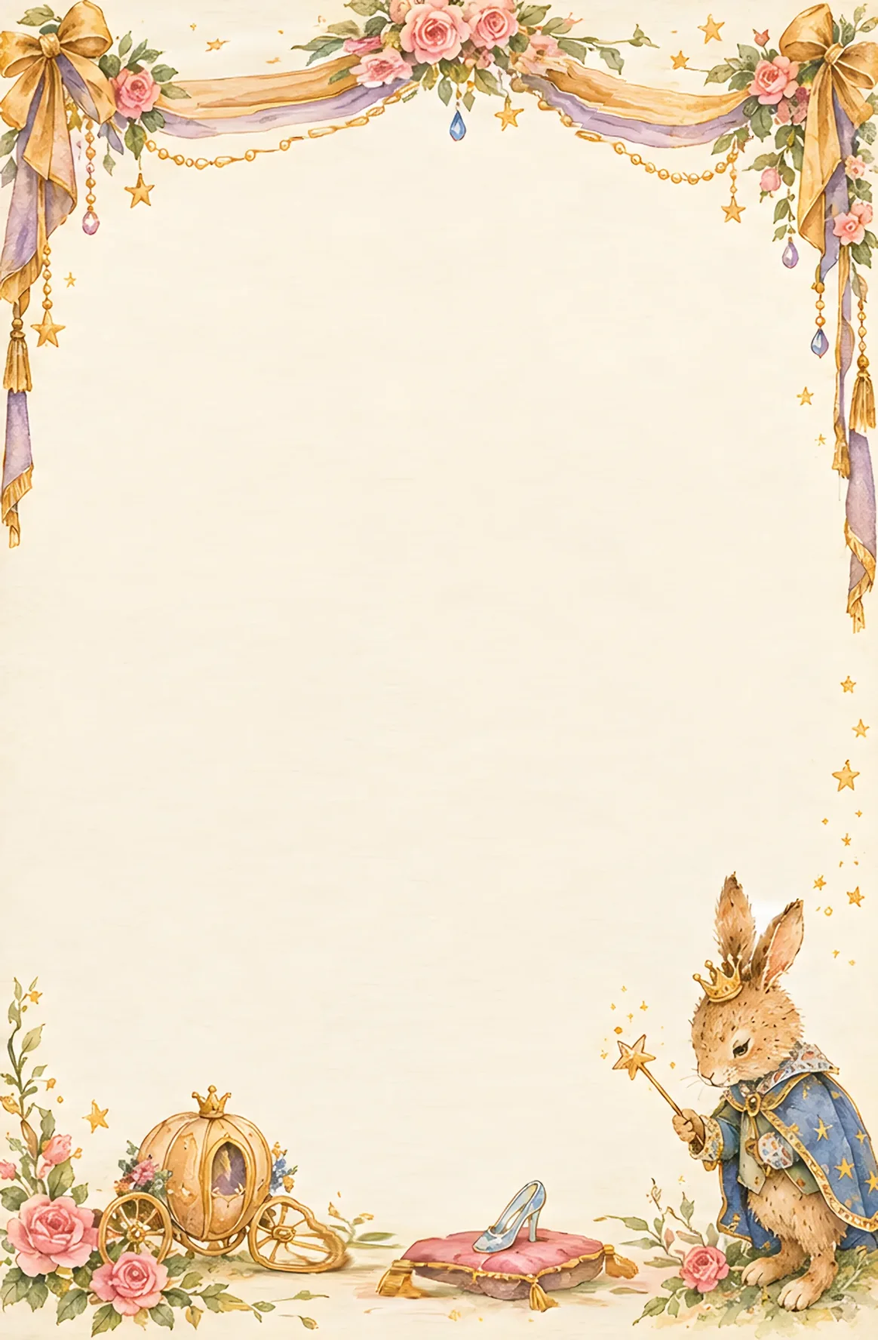
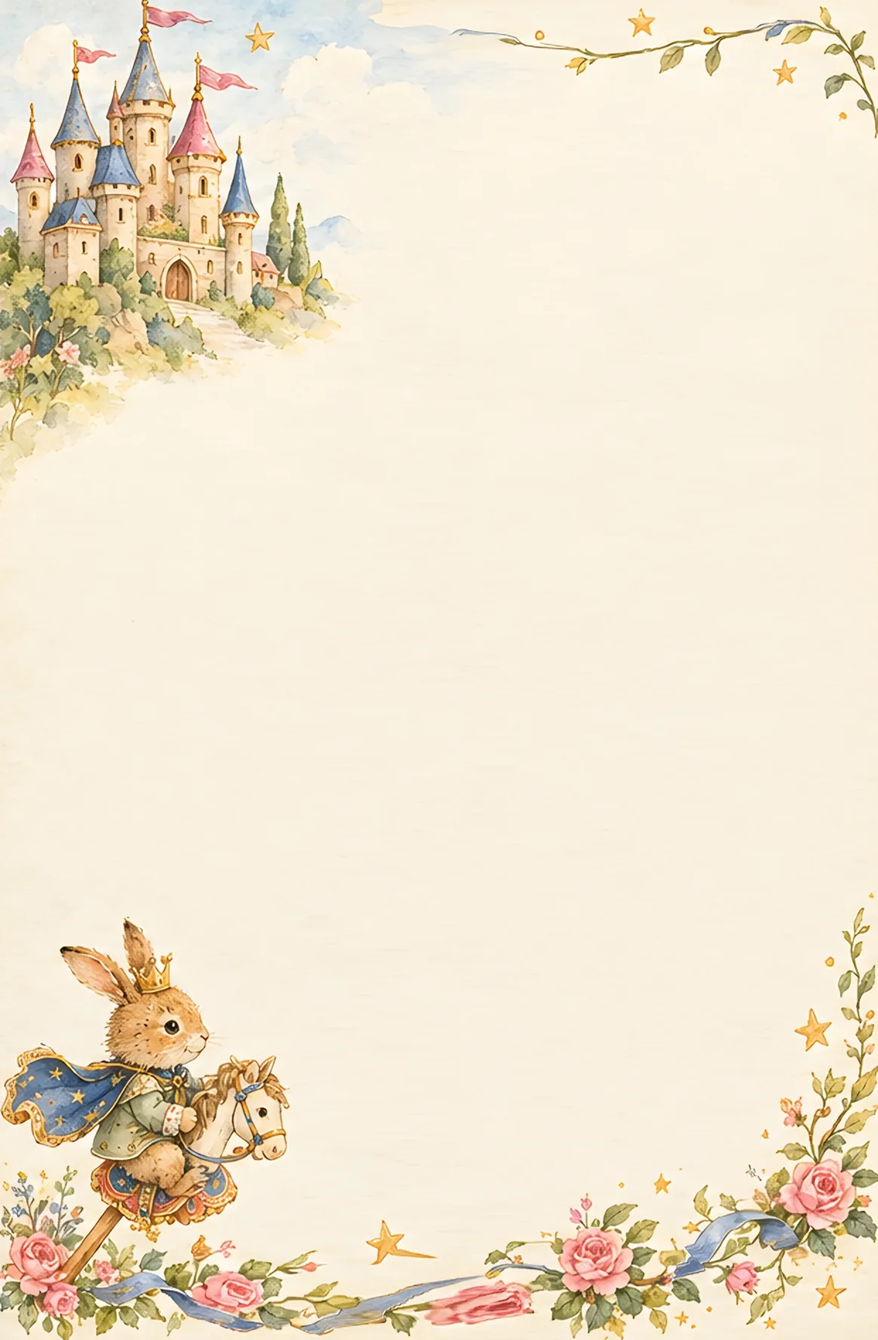
Листы малышей: текст занимает всё свободное поле и обтекает Героёнка и предметы в углах (вырезы, подобраны по рисунку — scripts/kids_layout.py), шрифт крупнее (Сказка до 28px, Большая история 23px); «Королевство» — лист с замком вместо кареты и туфельки Золушки

diff --git a/book.html b/book.html
@@ -158,8 +158,8 @@ body{ margin:0; background:var(--ink); font-family:var(--font-body); color:var(-
 .sk-strip-right .story{ padding-left:68px; padding-right:128px; }
 .sk-strip-right .page-item, .sk-strip-right .pageno{ padding-left:0; padding-right:60px; }
 /* малышам: лист с текстом нарисован целиком (kidsSheet), текст — в пустой середине, номер — под текстом */
-.kids-page .story{ position:absolute; top:var(--kt); right:var(--kr); bottom:calc(var(--kb) + 40px); left:var(--kl); padding:0; line-height:1.55; }
-.kids-page .pageno{ top:calc(100% - var(--kb) - 36px); bottom:auto; left:var(--kl); right:var(--kr); }
+.kids-page .story{ position:absolute; padding:0; display:block; line-height:1.5; }
+.kids-page .pageno{ bottom:auto; }
 .kids-page .pageno img{ display:none; }
 .pic-page .hero{ position:absolute; inset:0; float:none; width:auto; height:auto; margin:0; border-radius:0; box-shadow:none; }
 .qr-block{ display:flex; align-items:center; gap:18px; margin:26px 110px 0; text-align:left; }
@@ -371,30 +371,72 @@ body{ margin:0; background:var(--ink); font-family:var(--font-body); color:var(-
   const DECOR = { tajny: { sprig: 9, folio: [6, 3], strip: true }, korolevstvo: { sprig: 9, boyFolio: [7, 6], strip: true }, 'novyj-god': { sprig: 10, strip: true }, 'den-rozhdeniya': { sprig: 9, compose: [9, 1, 10], strip: true } };
   const DECOR_BY_THEME = { adventure: 'tajny', fairytale: 'korolevstvo', newyear: 'novyj-god', birthday: 'den-rozhdeniya' };
   // Малышам (до 7 лет) — листы с текстом целиком нарисованы: Героёнок в образе темы по краям, середина для текста
-  // (assets/kit/decor/<набор>/kids-1|2.webp, два вида чередуются). Поля текста — отступы от краёв листа в %:
-  // [сверху, справа, снизу, слева], подобраны по картинкам, чтобы текст не заходил на рисунок
+  // (assets/kit/decor/<набор>/kids-1|2.webp, два вида чередуются; такая же таблица — в js/book-engine.js)
   const KIDS_AGE = 7;
+  // [сверху, справа, снизу, слева, вырезы] — поле текста в % от краёв листа; вырезы — рисунок внутри поля (Героёнок, предметы в углах),
+  // текст их обтекает: tl/bl — [правый край, низ|верх], tr/br — [левый край, низ|верх] в % листа. Подобраны по рисунку автоматически
+  // (не ближе ~2% к рисунку и 6% к краю листа) — подбор — scripts/kids_layout.py
   const KIDS = {
-    tajny: [[16, 12, 33, 16], [22, 13, 32, 17]],
-    more: [[10, 13, 44, 13], [24, 17, 32, 13]],
-    poxod: [[16, 12, 36, 12], [14, 12, 33, 24]],
-    korolevstvo: [[10, 20, 25, 22], [20, 16, 36, 16]],
-    les: [[15, 14, 38, 14], [19, 14, 36, 14]],
-    podvodnoe: [[8, 13, 36, 24], [22, 14, 33, 14]],
-    'novyj-god': [[13, 12, 32, 14], [24, 20, 24, 13]],
-    'den-rozhdeniya': [[14, 13, 40, 13], [24, 13, 40, 13]]
+    tajny: [[14, 10, 15, 15, { tl: [24.5, 20], tr: [86, 17.5], bl: [21, 78.5], br: [74.5, 69] }], [12, 11, 12, 15, { tr: [70.5, 27], bl: [26, 82.5], br: [69, 67] }]],
+    more: [[16.5, 10, 12, 12, { bl: [19, 82], br: [67.5, 62] }], [10, 15.5, 19, 9.5, { tl: [26, 28], bl: [18, 76], br: [64, 71.5] }]],
+    poxod: [[18, 8.5, 22, 12, { tl: [16.5, 21], bl: [36, 68], br: [80.5, 69.5] }], [13, 11, 25, 19, { tl: [31.5, 17], br: [84, 66.5] }]],
+    korolevstvo: [[16, 16, 11, 21, { bl: [23, 85.5], br: [76, 72.5] }], [8, 6.5, 18, 6, { tl: [38, 33.5], bl: [32.5, 67], br: [88, 74] }]],
+    les: [[19, 9, 23, 13, { tl: [17.5, 28], bl: [28, 60], br: [80.5, 69.5] }], [11, 9, 27.5, 16, { tl: [30.5, 19.5], bl: [45.5, 62.5] }]],
+    podvodnoe: [[8.5, 10.5, 22.5, 26, { tl: [27.5, 19], br: [79.5, 65] }], [9.5, 13.5, 19, 9.5, { tl: [22.5, 21], tr: [78.5, 19], bl: [29.5, 58], br: [70, 70.5] }]],
+    'novyj-god': [[16, 9.5, 16, 22, { br: [74, 67] }], [19, 9.5, 16, 10.5, { tl: [20.5, 29], tr: [81.5, 33], bl: [20, 79], br: [77.5, 75] }]],
+    'den-rozhdeniya': [[15.5, 13.5, 19, 16, { br: [63.5, 65] }], [15, 10.5, 17, 12.5, { tr: [78, 26], bl: [56, 80], br: [56, 54.5] }]]
   };
-  const KIDS_SPLIT = 450; // больше знаков на лист не ставим — делим текст страницы на несколько листов (иначе шрифт для малышей мелкий)
+  const KIDS_SPLIT = 650; // больше знаков на лист не ставим — делим текст страницы на несколько листов (иначе шрифт для малышей мелкий)
   let KIDS_ON = false;
   let KIDS_SET = 'tajny'; // набор листов малышей: как SET, но у книги ко дню рождения — именинные листы
   let kidsCount = 0;
   function kidsSheet(s) {
     s.setAttribute('data-kids-no', String(kidsCount + 1)); // номер листа с текстом (страница сказки может занять несколько)
     const n = kidsCount++ % 2;
-    const box = KIDS[KIDS_SET][n];
     s.classList.add('text-page', 'kids-page');
     s.style.background = 'url("assets/kit/decor/' + KIDS_SET + '/kids-' + (n + 1) + '.webp") center/100% 100% no-repeat #f6efdf';
-    ['--kt', '--kr', '--kb', '--kl'].forEach(function (v, i) { s.style.setProperty(v, box[i] + '%'); });
+    s.kidsLayout = KIDS[KIDS_SET][n];
+  }
+  // текст — в поле листа, номер — под ним; вырезы с рисунком текст обтекает
+  function kidsPlace(s) {
+    const W = SHEET_W, H = 1123, k = s.kidsLayout, cuts = k[4] || {};
+    const area = { top: k[0] * H / 100, right: W - k[1] * W / 100, bottom: H - k[2] * H / 100 - 40, left: k[3] * W / 100 };
+    const story = s.querySelector('.story');
+    story.style.cssText += ';top:' + area.top + 'px;left:' + area.left + 'px;width:' + (area.right - area.left) + 'px;height:' + (area.bottom - area.top) + 'px';
+    const px = {};
+    Object.keys(cuts).forEach(function (c) { px[c] = { x: cuts[c][0] * W / 100, y: cuts[c][1] * H / 100 }; });
+    kidsCuts(story, area, px);
+    const no = s.querySelector('.pageno');
+    if (no) no.style.cssText += ';top:' + (area.bottom + 4) + 'px;left:' + area.left + 'px;right:' + (W - area.right) + 'px';
+  }
+  // Вырезы в поле текста — пустые «плавающие» блоки в углах, текст их обтекает. Нижние ставятся через распорку нулевой ширины
+  // (float не умеет прижиматься к низу). area и cuts — в px листа: tl/tr — {x: край выреза, y: его низ}, bl/br — {x, y: его верх}
+  function kidsCuts(story, area, cuts) {
+    const floats = [], spacers = [], late = [];
+    function f(side, w, h, clear) {
+      const d = document.createElement('div');
+      d.className = 'kids-cut';
+      d.style.cssText = 'float:' + side + ';width:' + Math.max(0, w) + 'px;height:' + Math.max(0, h) + 'px' + (clear ? ';clear:' + side : '');
+      return d;
+    }
+    if (cuts.tl && cuts.tl.y > area.top && cuts.tl.x > area.left) floats.push(f('left', cuts.tl.x - area.left, cuts.tl.y - area.top));
+    if (cuts.tr && cuts.tr.y > area.top && cuts.tr.x < area.right) floats.push(f('right', area.right - cuts.tr.x, cuts.tr.y - area.top));
+    [['bl', 'left'], ['br', 'right']].forEach(function (c) {
+      const cut = cuts[c[0]];
+      if (!cut || cut.y >= area.bottom) return;
+      const w = c[1] === 'left' ? cut.x - area.left : area.right - cut.x;
+      if (w <= 0) return;
+      spacers.push(f(c[1], 0, cut.y - area.top));
+      late.push({ y: cut.y, node: f(c[1], w, area.bottom - Math.max(cut.y, area.top) - 3, true) }); // −3px: доли пикселя не дают «переполнения»
+    });
+    // распорки — первыми (иначе встают правее верхнего выреза и сужают текст на всю высоту), за ними верхние вырезы;
+    // нижние — по порядку сверху вниз и после буквицы: float не встаёт выше предыдущего, и буквица после нижнего выреза уехала бы вниз
+    const lateNodes = late.sort(function (a, b) { return a.y - b.y; }).map(function (l) { return l.node; });
+    const anchor = story.firstChild;
+    spacers.concat(floats).forEach(function (d) { story.insertBefore(d, anchor); });
+    const drop = story.querySelector('.dropcap');
+    const ref = drop ? drop.nextSibling : anchor;
+    lateNodes.forEach(function (d) { (drop ? drop.parentNode : story).insertBefore(d, ref); });
   }
   // делим абзацы на n листов примерно поровну по длине (абзац не рвём)
   function splitParagraphs(paras, n) {
@@ -633,6 +675,7 @@ body{ margin:0; background:var(--ink); font-family:var(--font-body); color:var(-
           }
           addStory(sh, part, k > 0);
           sh.appendChild(pageNumber(Number(sh.getAttribute('data-kids-no')), true));
+          kidsPlace(sh);
         });
         return;
       } else if (useHero) {
@@ -802,7 +845,7 @@ body{ margin:0; background:var(--ink); font-family:var(--font-body); color:var(-
   function fitText() {
     document.querySelectorAll('.story').forEach(function (story) {
       // лист только с текстом — крупный шрифт для чтения вслух малышам; подросткам — как раньше
-      let size = story.closest('.text-page') && !document.body.classList.contains('teen') ? 26 : 19.5;
+      let size = story.closest('.kids-page') ? 28 : story.closest('.text-page') && !document.body.classList.contains('teen') ? 26 : 19.5;
       story.style.setProperty('--fs', size + 'px');
       // предмет над текстом (160 px) — на каждой странице; если шрифт выходит мельче 21px, предмет уменьшается до 90 px
       const item = story.parentNode.querySelector('.page-item');

diff --git a/js/book-engine.js b/js/book-engine.js
@@ -83,18 +83,19 @@
   function decorFor(book) { return DECOR_BY_GENRE[book.genre] || DECOR_BY_FOOTER[book.footer] || 'tajny'; }
   // Малышам (до 7 лет) листы с текстом целиком нарисованы: Героёнок в образе темы по краям, середина для текста
   // (decor/<набор>/kids-1|2-pro.webp — те же листы, что в «Сказке» (book.html, KIDS), сужены под 582×888 через пустую середину).
-  // Поля текста — как в book.html, % от краёв [сверху, справа, снизу, слева]; боковые поля здесь шире в KIDS_SIDE раз
+  // [сверху, справа, снизу, слева, вырезы] — поле текста в % листа; вырезы (Героёнок, предметы в углах) текст обтекает:
+  // tl/bl — [правый край, низ|верх], tr/br — [левый край, низ|верх]. Подобраны по рисунку автоматически (scripts/kids_layout.py)
   var KIDS = {
-    tajny: [[16, 12, 33, 16], [22, 13, 32, 17]],
-    more: [[10, 13, 44, 13], [24, 17, 32, 13]],
-    poxod: [[16, 12, 36, 12], [14, 12, 33, 24]],
-    korolevstvo: [[10, 20, 25, 22], [20, 16, 36, 16]],
-    les: [[15, 14, 38, 14], [19, 14, 36, 14]],
-    podvodnoe: [[8, 13, 36, 24], [22, 14, 33, 14]],
-    'novyj-god': [[13, 12, 32, 17], [28, 20, 24, 13]], // в узком листе гирлянда и Героёнок на ёлке ближе к тексту — поля больше, чем в book.html
-    'den-rozhdeniya': [[14, 13, 40, 13], [24, 13, 40, 13]]
+    tajny: [[15, 10.5, 15, 16, { tl: [22.5, 20], tr: [86.5, 17.5], bl: [22.5, 79], br: [73, 69] }], [16, 12, 16, 15, { tr: [70.5, 27], bl: [19, 82], br: [67.5, 67] }]],
+    more: [[14, 13.5, 16, 14, { br: [65.5, 66] }], [10, 16.5, 22.5, 6, { tl: [28, 29], bl: [18, 76], br: [66, 71.5] }]],
+    poxod: [[20, 7, 26, 13, { bl: [30, 68.5], br: [85, 69.5] }], [17, 10.5, 23.5, 20.5, { br: [82, 67] }]],
+    korolevstvo: [[17, 20, 15, 21, { br: [76, 74.5] }], [8.5, 6.5, 21.5, 6, { tl: [41, 33.5], bl: [32.5, 67], br: [88.5, 74] }]],
+    les: [[15, 12.5, 27, 14.5, { tl: [21.5, 28], bl: [28, 63], br: [86.5, 71] }], [14.5, 10, 32, 17, { tl: [30.5, 19.5], bl: [41, 62.5] }]],
+    podvodnoe: [[8.5, 11, 22.5, 29.5, { br: [78.5, 65] }], [13.5, 14.5, 26.5, 10, { tl: [23, 21.5], tr: [82, 19], bl: [26, 58.5], br: [74, 70.5] }]],
+    'novyj-god': [[18, 9.5, 17, 21.5, { br: [74, 67] }], [20.5, 10, 20, 9, { tl: [20.5, 30], tr: [80, 33], br: [77, 75] }]],
+    'den-rozhdeniya': [[15, 13.5, 23, 16, { br: [65.5, 65] }], [17, 11.5, 21, 12.5, { tr: [77, 25.5], br: [58.5, 54.5] }]]
   };
-  var KIDS_AGE = 7, KIDS_SIDE = 1256 / 1164, PAGE_W = 582, PAGE_H = 888;
+  var KIDS_AGE = 7, PAGE_W = 582, PAGE_H = 888;
   var KIDS_SET = null; // набор листов малышей (null — обычное оформление); у книги ко дню рождения — именинные листы
   var kidsCount = 0;
   function kidsSetFor(book) {
@@ -103,15 +104,47 @@
     var set = book.occasion === 'birthday' ? 'den-rozhdeniya' : SET;
     return KIDS[set] ? set : null;
   }
-  // фон листа и границы текста (px), номер страницы — под текстом
+  // фон листа и поле текста (px листа); номер страницы — под текстом
   function kidsBox(page) {
-    var n = kidsCount++ % 2, b = KIDS[KIDS_SET][n];
+    var n = kidsCount++ % 2, k = KIDS[KIDS_SET][n], cuts = {};
     page.style.background = 'url("' + KIT + 'decor/' + KIDS_SET + '/kids-' + (n + 1) + '-pro.webp") center/100% 100% no-repeat #f6efdf';
-    var l = b[3] * KIDS_SIDE * PAGE_W / 100, r = b[1] * KIDS_SIDE * PAGE_W / 100;
+    var l = k[3] * PAGE_W / 100, r = PAGE_W - k[1] * PAGE_W / 100;
     page.style.setProperty('--l', l + 'px');
-    page.style.setProperty('--w', (PAGE_W - l - r) + 'px');
-    return { top: b[0] * PAGE_H / 100, bottom: PAGE_H - b[2] * PAGE_H / 100 };
+    page.style.setProperty('--w', (r - l) + 'px');
+    Object.keys(k[4] || {}).forEach(function (c) { cuts[c] = { x: k[4][c][0] * PAGE_W / 100, y: k[4][c][1] * PAGE_H / 100 }; });
+    return { top: k[0] * PAGE_H / 100, bottom: PAGE_H - k[2] * PAGE_H / 100, left: l, right: r, cuts: cuts };
   }
+  // Вырезы — пустые «плавающие» блоки в углах поля, текст их обтекает (как kidsCuts в book.html). Нижние ставятся через распорку
+  // нулевой ширины (float не прижимается к низу); распорки — первыми, иначе встают правее верхнего выреза и сужают текст на всю высоту.
+  // Нижние вырезы возвращаются отдельно: их ставим после буквицы (placeLateCuts) — float не встаёт выше предыдущего
+  function kidsCuts(content, area, cuts) {
+    var spacers = [], floats = [], late = [];
+    function f(side, w, ht, clear) {
+      var d = h('div', 'kids-cut');
+      d.style.cssText = 'float:' + side + ';width:' + Math.max(0, w) + 'px;height:' + Math.max(0, ht) + 'px' + (clear ? ';clear:' + side : '');
+      return d;
+    }
+    if (cuts.tl && cuts.tl.y > area.top && cuts.tl.x > area.left) floats.push(f('left', cuts.tl.x - area.left, cuts.tl.y - area.top));
+    if (cuts.tr && cuts.tr.y > area.top && cuts.tr.x < area.right) floats.push(f('right', area.right - cuts.tr.x, cuts.tr.y - area.top));
+    [['bl', 'left'], ['br', 'right']].forEach(function (c) {
+      var cut = cuts[c[0]];
+      if (!cut || cut.y >= area.bottom) return;
+      var w = c[1] === 'left' ? cut.x - area.left : area.right - cut.x;
+      if (w <= 0) return;
+      spacers.push(f(c[1], 0, cut.y - area.top));
+      late.push({ y: cut.y, node: f(c[1], w, area.bottom - Math.max(cut.y, area.top) - 3, true) }); // −3px: без «переполнения» из-за долей пикселя
+    });
+    spacers.concat(floats).forEach(function (d) { content.appendChild(d); });
+    return late.sort(function (a, b) { return a.y - b.y; }).map(function (l) { return l.node; });
+  }
+  // нижние вырезы — после буквицы первого абзаца на листе (или перед ним, если буквицы нет)
+  function placeLateCuts(sheet, node) {
+    var drop = node.querySelector && node.querySelector('.bk-dropcap');
+    var ref = drop ? drop.nextSibling : node;
+    sheet.lateCuts.forEach(function (d) { (drop ? drop.parentNode : sheet.content).insertBefore(d, ref); });
+    sheet.lateIn = drop ? node : null;
+  }
+
   var BOY = false; // герой — мальчик: у некоторых наборов свои украшения (DECOR[set].boy)
   function decorCfg() { var c = DECOR[SET]; return BOY && c.boy ? Object.assign({}, c, c.boy) : c; }
   function decorItem(n, set) { return KIT + 'decor/' + (set || SET) + '/item-' + n + '.webp'; }
@@ -261,18 +294,26 @@
     }
     page.appendChild(folio);
 
+    var lateCuts = null;
     if (KIDS_SET) {
-      // текст — в пустой середине рисунка; у открытия главы сверху «Глава N» и название, без шапки страницы
-      var box = kidsBox(page);
+      // текст — в поле рисунка; у открытия главы сверху «Глава N» и название (между верхними вырезами), без шапки страницы
+      var box = kidsBox(page), cuts = box.cuts;
       var head2 = page.querySelector('.bk-opener-head');
       var top2 = box.top;
-      if (head2) { head2.style.top = box.top + 'px'; top2 = box.top + head2.offsetHeight + 18; }
+      if (head2) {
+        var hl = cuts.tl && cuts.tl.y > box.top ? Math.max(box.left, cuts.tl.x) : box.left;
+        var hr = cuts.tr && cuts.tr.y > box.top ? Math.min(box.right, cuts.tr.x) : box.right;
+        head2.style.cssText += ';top:' + box.top + 'px;left:' + hl + 'px;width:' + (hr - hl) + 'px';
+        top2 = box.top + head2.offsetHeight + 18;
+      }
+      var area = { top: top2, bottom: box.bottom - 40, left: box.left, right: box.right };
       content.style.top = top2 + 'px';
-      content.style.height = (box.bottom - 40 - top2) + 'px';
+      content.style.height = (area.bottom - top2) + 'px';
       folio.style.top = (box.bottom - 34) + 'px';
+      lateCuts = kidsCuts(content, area, cuts);
     }
 
-    return { page: page, content: content, folio: folio.querySelector('.bk-no') };
+    return { page: page, content: content, folio: folio.querySelector('.bk-no'), lateCuts: lateCuts };
   }
 
   function illustrationSheet(root, block, imageIndex) {
@@ -678,13 +719,17 @@
           var node = renderBlock(block, isFirst ? { initial: initial, dropcap: !initial } : null);
           if (isFirst) first = false;
           cur.content.appendChild(node);
+          if (cur.lateCuts) { placeLateCuts(cur, node); cur.lateCuts = null; }
 
           if (overflows(cur.content)) {
+            // нижние вырезы листа, если стояли внутри этого абзаца, остаются на листе
+            if (cur.lateIn === node) Array.prototype.slice.call(node.querySelectorAll('.kids-cut')).forEach(function (d) { cur.content.appendChild(d); });
             cur.content.removeChild(node);
             cur = textSheet(root, chapter, false);
             sheets.push(cur);
             node = renderBlock(block, null);
             cur.content.appendChild(node);
+            if (cur.lateCuts) { placeLateCuts(cur, node); cur.lateCuts = null; }
           }
           // адрес абзаца в книге — для правки текста прямо на странице
           if (block.t === 'p') { node.setAttribute('data-ch', String(ci)); node.setAttribute('data-bi', String(bi)); }

diff --git a/assets/kit/parchment.css b/assets/kit/parchment.css
@@ -670,4 +670,4 @@
 /* ---------- малышам (до 7 лет): лист с текстом нарисован целиком — Героёнок в образе темы по краям (book-engine.js, KIDS) ---------- */
 .bk-kids .bk-opener-head .bk-vignette, .bk-kids .bk-folio-brand img{ display:none; }
 .bk-kids .bk-chapter-title{ margin-top:8px; }
-.bk-kids .bk-content{ font-size:21px; line-height:34px; }
+.bk-kids .bk-content{ font-size:23px; line-height:37px; }

diff --git a/scripts/kids_layout.py b/scripts/kids_layout.py
@@ -1,0 +1,70 @@
+"""Поля текста на листах малышей (KIDS в book.html и js/book-engine.js): подбор и проверка по рисунку.
+Маска рисунка (крупные пятна, отличные от бумаги) с запасом ~2%; поле [сверху, справа, снизу, слева] + вырезы в углах
+(tl/tr/bl/br) растут, пока не задевают рисунок; не ближе 6% к краю листа, строки не уже 38% листа.
+Запуск: python scripts/kids_layout.py           — подбор для «Сказки» (стартует с таблицы KIDS в book.html) → tuned.json
+        python scripts/kids_layout.py -pro      — для «Большой истории» (kids-N-pro.webp, стартует с tuned.json) → tuned-pro.json
+Таблицы в код переносятся вручную (формат как в KIDS).
+"""
+import json, subprocess, sys, numpy as np
+SUF = sys.argv[1] if len(sys.argv) > 1 else ''
+from PIL import Image
+from scipy.ndimage import binary_opening, binary_dilation, label
+src = open(r'book.html', encoding='utf-8').read()
+tbl = src[src.index('const KIDS = {') + len('const KIDS = '): src.index('};', src.index('const KIDS = {')) + 1]
+K = json.load(open('tuned.json')) if SUF else json.loads(subprocess.check_output(['node', '-e', 'console.log(JSON.stringify(' + tbl + '))']))
+W0, H0 = (200, 283) if not SUF else (200, 305)
+X, Y = np.meshgrid((np.arange(W0) + .5) * 100 / W0, (np.arange(H0) + .5) * 100 / H0)
+def mask(s, n):
+    im = Image.open(f'assets/kit/decor/{s}/kids-{n}{SUF}.webp').convert('RGB').resize((397, 561 if not SUF else 606))
+    a = np.asarray(im).astype(int); h, w, _ = a.shape
+    paper = np.median(a[h//3:2*h//3, w//3:2*w//3].reshape(-1, 3), 0)
+    d = binary_opening(np.abs(a - paper).sum(2) > 45, iterations=1)
+    lab, _ = label(binary_dilation(d, iterations=1)); sz = np.bincount(lab.ravel()); big = sz >= 40; big[0] = False
+    d = big[lab] & d
+    d = binary_dilation(d, iterations=7)  # запас ≈1,8%
+    return np.asarray(Image.fromarray(d.astype(np.uint8) * 255).resize((W0, H0))) > 0
+CUTS = ['tl', 'tr', 'bl', 'br']
+def unpack(p):
+    t, r, b, l = p[:4]; cuts = {c: (p[4 + 2 * i], p[5 + 2 * i]) for i, c in enumerate(CUTS)}
+    return t, r, b, l, cuts
+def region(p):
+    t, r, b, l, cuts = unpack(p)
+    a = (Y >= t) & (Y <= 100 - b) & (X >= l) & (X <= 100 - r)
+    for c, (cx, cy) in cuts.items():
+        a &= ~(((X < cx) if c[1] == 'l' else (X > cx)) & ((Y < cy) if c[0] == 't' else (Y > cy)))
+    return a
+def score(p, d):
+    a = region(p)
+    rows = a.sum(1); narrow = ((rows > 0) & (rows < W0 * 0.38)).sum()
+    t, r, b, l, cuts = unpack(p)
+    bad = 10**9 if min(p[:4]) < 6 else 0  # не ближе 6% к краю листа (поля для печати)
+    return a.sum() - 400 * (a & d).sum() - 300 * narrow - bad
+out = {}
+for s, pair in K.items():
+    out[s] = []
+    for n, k in enumerate(pair, 1):
+        d = mask(s, n)
+        t, r, b, l = [max(6, v) for v in k[:4]]; cuts = k[4] if len(k) > 4 else {}
+        p = [t, r, b, l]
+        for c in CUTS:
+            if c in cuts: p += list(cuts[c])
+            else: p += [l if c[1] == 'l' else 100 - r, t if c[0] == 't' else 100 - b]  # пустой вырез
+        p = [float(v) for v in p]; best = score(p, d)
+        for step in (4, 2, 1, 0.5):
+            improved = True
+            while improved:
+                improved = False
+                for i in range(len(p)):
+                    for dv in (step, -step):
+                        q = p[:]; q[i] += dv
+                        sc = score(q, d)
+                        if sc > best: p, best, improved = q, sc, True
+        t, r, b, l, cuts = unpack(p)
+        cd = {}
+        for c, (cx, cy) in cuts.items():
+            w = (cx - l) if c[1] == 'l' else (100 - r - cx); h = (cy - t) if c[0] == 't' else (100 - b - cy)
+            if w > 0.5 and h > 0.5: cd[c] = [round(cx, 1), round(cy, 1)]
+        res = [round(t, 1), round(r, 1), round(b, 1), round(l, 1), cd]
+        out[s].append(res)
+        print(f'{s}-{n}', res, 'hits', int((region(p) & d).sum()), 'area', round(region(p).mean() * 100))
+json.dump(out, open('tuned' + SUF + '.json', 'w'))
